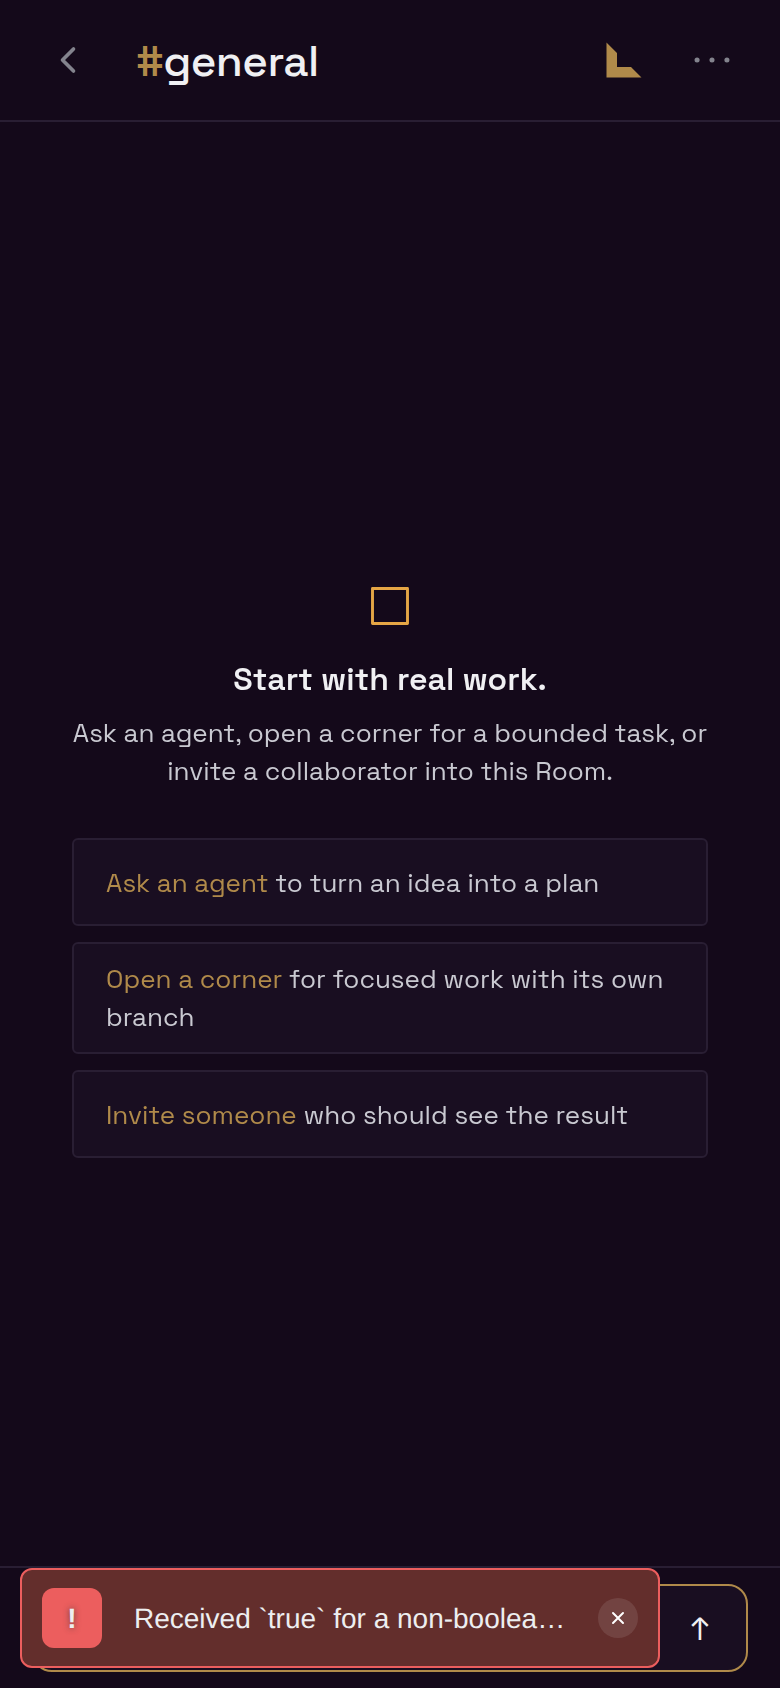
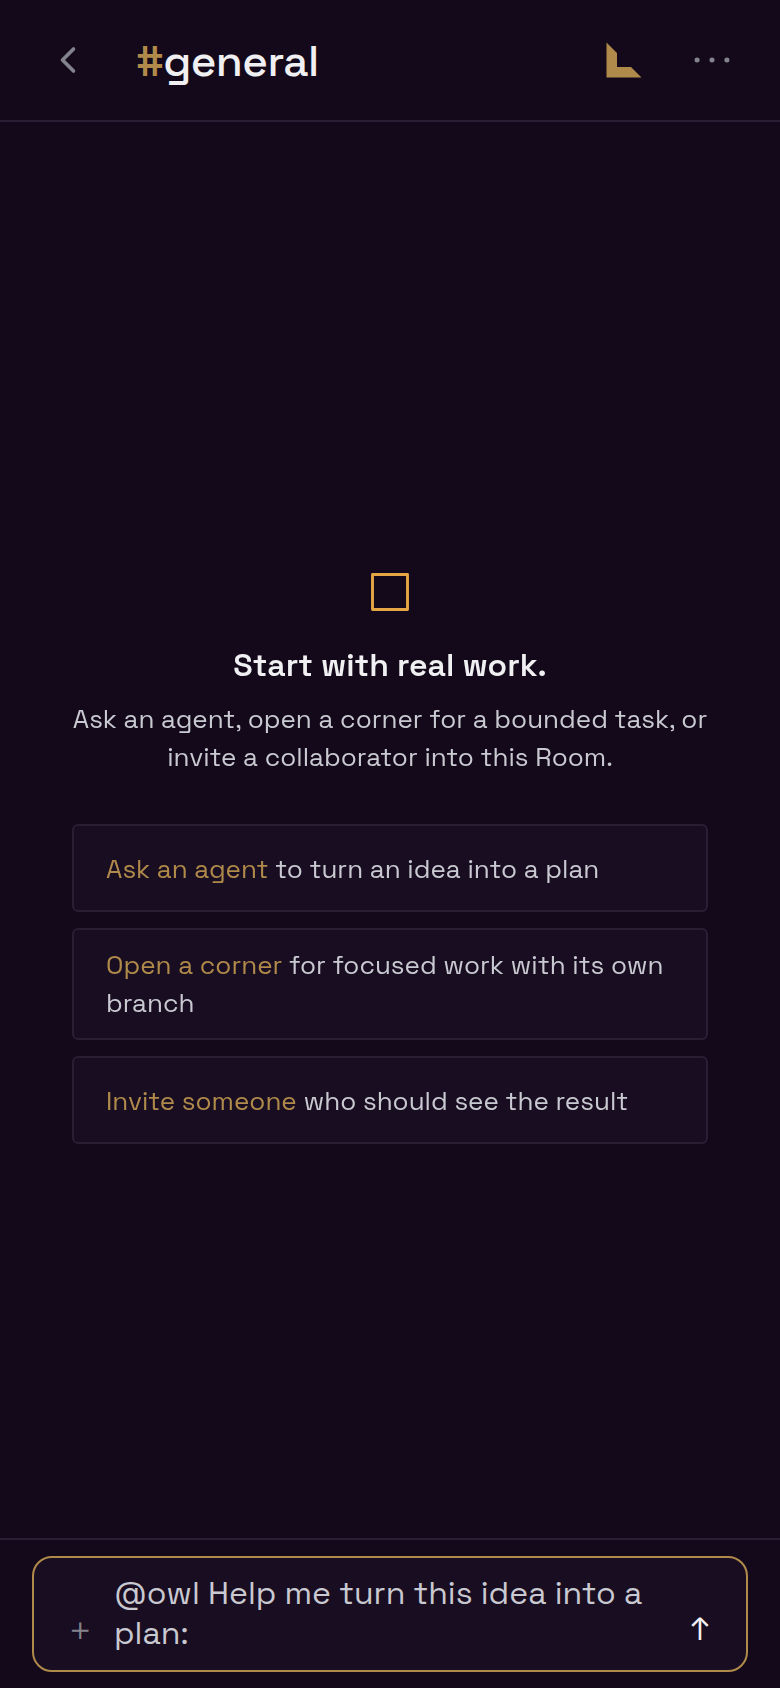
Refresh onboarding evidence frames for the final starter and invite-retry behaviour

diff --git a/docs/evidence/onboarding/README.md b/docs/evidence/onboarding/README.md
@@ -24,6 +24,10 @@ disposable local PostgreSQL database. They are not mocks. Every account is a dev
    - mobile at 390×844 (DPR 2), desktop at 1440×900;
    - dark scheme;
    - one account per viewport, because changing the viewport reloads the page.
+6. The final starter-prompt and invite-retry frames come from a second session on the final
+   branch head, with the server on `:19291` and Expo web on `:19206`. For the agent state,
+   `@owl` was inserted into `#general` directly in that disposable database, standing in for a
+   completed pairing. The offline state used Chrome's network emulation.
 
 ## Welcome / Greeter retirement (local)
 
@@ -54,7 +58,9 @@ disposable local PostgreSQL database. They are not mocks. Every account is a dev
 | Create 3 — invite link + agent command | `04-create-step3-crew-mobile.png` | `24-create-step3-desktop.png` |
 | First Room `#general` + tour card 1/4 | `05-first-room-tour-card1-mobile.png` | `25-first-room-tour-desktop.png` |
 | Tour cards 2–4 | `05-tour-card{2,3,4}-mobile.png` | — |
-| Starter prompts, live composer | `06-first-room-starter-prompts-mobile.png`, `06-first-room-starter-filled-mobile.png` | `26-first-room-starter-desktop.png` |
+| Starters, Workspace with no agent (Connect an agent + Invite someone) | `06-first-room-starter-prompts-mobile.png` | `26-first-room-starter-desktop.png` |
+| Connect an agent → pairing command | `06-first-room-connect-agent-mobile.png` | — |
+| Starters once an agent (`@owl`) is in the Room; tap fills the live composer | `06-first-room-starter-filled-mobile.png` | — |
 | Spotlight 1/3 — Room list | `07-tip-rooms-mobile.png` | `27-tip-rooms-desktop.png` |
 | Spotlight 2/3 — corner | `08-tip-corner-mobile.png` | — |
 | Spotlight 3/3 — Workbench | `09-tip-workbench-mobile.png` | — |
@@ -63,6 +69,8 @@ disposable local PostgreSQL database. They are not mocks. Every account is a dev
 | Invite confirmation after sign-in | `12-invite-confirm-mobile.png` | `28-invite-confirm-desktop.png` |
 | Joined → first Room + tour | `13-invite-joined-first-room-mobile.png` | — |
 | Dead invite repair state | `14-invite-unavailable-mobile.png` | — |
+| Invite opened offline → "Couldn't reach Beeline" (invite kept) | `15-invite-unreachable-mobile.png` | — |
+| Back online → Retry → confirmation | `15-invite-retry-confirm-mobile.png` | — |
 
 ## Tour library spike
 
